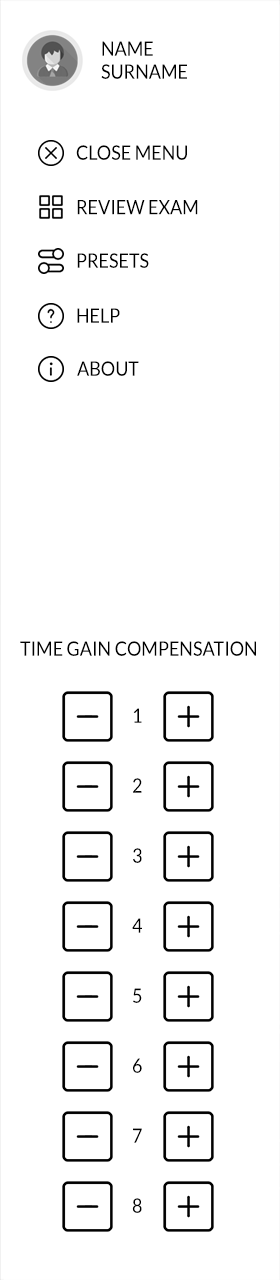
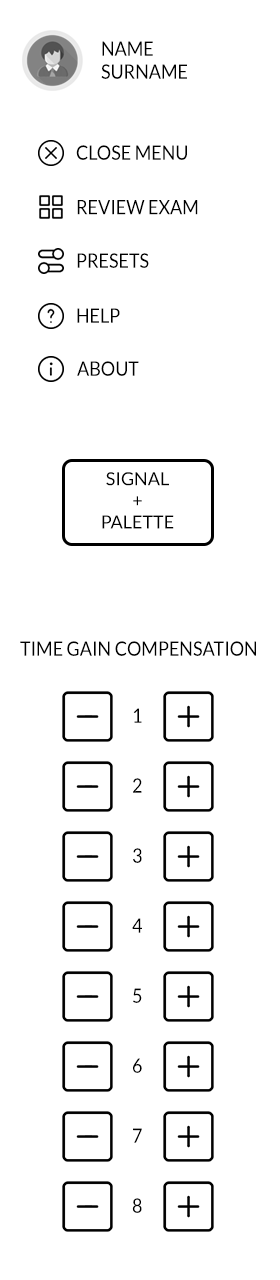
implemented signalPalette screen

Changed region(s): [[0.3429, 0.3438, 0.6286, 0.4375], [0.2, 0.3438, 0.2571, 0.4375], [0.7429, 0.3438, 0.7714, 0.4375]]

diff --git a/USG_tablet_UI/Windows/signalPaletteWindow.xaml b/USG_tablet_UI/Windows/signalPaletteWindow.xaml
@@ -1,0 +1,135 @@
+<Window x:Class="USG_tablet_UI.signalPaletteWindow"
+        xmlns="http://schemas.microsoft.com/winfx/2006/xaml/presentation"
+        xmlns:x="http://schemas.microsoft.com/winfx/2006/xaml"
+        Title="signalPaletteWindow" Height="1280" Width="800"
+        ResizeMode="NoResize" 
+        WindowStyle="None"
+        BorderBrush="Black"
+        BorderThickness="0"
+        AllowsTransparency="True"
+        Background="Transparent" >
+    <Grid>
+        <Image HorizontalAlignment="Left" Height="676" Margin="0,605,0,0" VerticalAlignment="Top" Width="800" Source="pack://application:,,,/gfx/signalPalette.png"/>
+        <Button x:Name="btnBack" Content="Button" HorizontalAlignment="Left" Margin="266,1176,0,0" VerticalAlignment="Top" Width="278" Opacity="0" Height="66" Click="btnBack_Click"/>
+        <Button x:Name="btnSine1" Content="Button" HorizontalAlignment="Left" Margin="42,723,0,0" VerticalAlignment="Top" Width="169" Opacity="0" Height="70" RenderTransformOrigin="0.5,0.5" Click="btnSine1_Click">
+            <Button.RenderTransform>
+                <TransformGroup>
+                    <ScaleTransform/>
+                    <SkewTransform/>
+                    <RotateTransform Angle="-0.24"/>
+                    <TranslateTransform/>
+                </TransformGroup>
+            </Button.RenderTransform>
+        </Button>
+        <Button x:Name="btnSine4" Content="Button" HorizontalAlignment="Left" Margin="222,723,0,0" VerticalAlignment="Top" Width="169" Opacity="0" Height="70" RenderTransformOrigin="0.5,0.5" Click="btnSine4_Click">
+            <Button.RenderTransform>
+                <TransformGroup>
+                    <ScaleTransform/>
+                    <SkewTransform/>
+                    <RotateTransform Angle="-0.24"/>
+                    <TranslateTransform/>
+                </TransformGroup>
+            </Button.RenderTransform>
+        </Button>
+        <Button x:Name="btnSine6" Content="Button" HorizontalAlignment="Left" Margin="408,723,0,0" VerticalAlignment="Top" Width="169" Opacity="0" Height="70" RenderTransformOrigin="0.5,0.5" Click="btnSine6_Click">
+            <Button.RenderTransform>
+                <TransformGroup>
+                    <ScaleTransform/>
+                    <SkewTransform/>
+                    <RotateTransform Angle="-0.24"/>
+                    <TranslateTransform/>
+                </TransformGroup>
+            </Button.RenderTransform>
+        </Button>
+        <Button x:Name="btnSine16" Content="Button" HorizontalAlignment="Left" Margin="591,723,0,0" VerticalAlignment="Top" Width="169" Opacity="0" Height="70" RenderTransformOrigin="0.5,0.5" Click="btnSine16_Click">
+            <Button.RenderTransform>
+                <TransformGroup>
+                    <ScaleTransform/>
+                    <SkewTransform/>
+                    <RotateTransform Angle="-0.24"/>
+                    <TranslateTransform/>
+                </TransformGroup>
+            </Button.RenderTransform>
+        </Button>
+        <Button x:Name="btnBarker20" Content="Button" HorizontalAlignment="Left" Margin="130,804,0,0" VerticalAlignment="Top" Width="169" Opacity="0" Height="70" RenderTransformOrigin="0.5,0.5" Click="btnBarker20_Click">
+            <Button.RenderTransform>
+                <TransformGroup>
+                    <ScaleTransform/>
+                    <SkewTransform/>
+                    <RotateTransform Angle="-0.24"/>
+                    <TranslateTransform/>
+                </TransformGroup>
+            </Button.RenderTransform>
+        </Button>
+        <Button x:Name="btnBarker35" Content="Button" HorizontalAlignment="Left" Margin="314,804,0,0" VerticalAlignment="Top" Width="169" Opacity="0" Height="70" RenderTransformOrigin="0.5,0.5" Click="btnBarker35_Click">
+            <Button.RenderTransform>
+                <TransformGroup>
+                    <ScaleTransform/>
+                    <SkewTransform/>
+                    <RotateTransform Angle="-0.24"/>
+                    <TranslateTransform/>
+                </TransformGroup>
+            </Button.RenderTransform>
+        </Button>
+        <Button x:Name="btnChirp" Content="Button" HorizontalAlignment="Left" Margin="498,804,0,0" VerticalAlignment="Top" Width="169" Opacity="0" Height="70" RenderTransformOrigin="0.5,0.5" Click="btnChirp_Click">
+            <Button.RenderTransform>
+                <TransformGroup>
+                    <ScaleTransform/>
+                    <SkewTransform/>
+                    <RotateTransform Angle="-0.24"/>
+                    <TranslateTransform/>
+                </TransformGroup>
+            </Button.RenderTransform>
+        </Button>
+        <Button x:Name="btn15f" Content="Button" HorizontalAlignment="Left" Margin="40,963,0,0" VerticalAlignment="Top" Width="169" Opacity="0" Height="70" RenderTransformOrigin="0.5,0.5" Click="btn15f_Click">
+            <Button.RenderTransform>
+                <TransformGroup>
+                    <ScaleTransform/>
+                    <SkewTransform/>
+                    <RotateTransform Angle="-0.24"/>
+                    <TranslateTransform/>
+                </TransformGroup>
+            </Button.RenderTransform>
+        </Button>
+        <Button x:Name="btn175f" Content="Button" HorizontalAlignment="Left" Margin="223,963,0,0" VerticalAlignment="Top" Width="169" Opacity="0" Height="70" RenderTransformOrigin="0.5,0.5" Click="btn175f_Click">
+            <Button.RenderTransform>
+                <TransformGroup>
+                    <ScaleTransform/>
+                    <SkewTransform/>
+                    <RotateTransform Angle="-0.24"/>
+                    <TranslateTransform/>
+                </TransformGroup>
+            </Button.RenderTransform>
+        </Button>
+        <Button x:Name="btn20f" Content="Button" HorizontalAlignment="Left" Margin="407,963,0,0" VerticalAlignment="Top" Width="169" Opacity="0" Height="70" RenderTransformOrigin="0.5,0.5" Click="btn20f_Click">
+            <Button.RenderTransform>
+                <TransformGroup>
+                    <ScaleTransform/>
+                    <SkewTransform/>
+                    <RotateTransform Angle="-0.24"/>
+                    <TranslateTransform/>
+                </TransformGroup>
+            </Button.RenderTransform>
+        </Button>
+        <Button x:Name="btn30f" Content="Button" HorizontalAlignment="Left" Margin="591,963,0,0" VerticalAlignment="Top" Width="169" Opacity="0" Height="70" RenderTransformOrigin="0.5,0.5" Click="btn30f_Click">
+            <Button.RenderTransform>
+                <TransformGroup>
+                    <ScaleTransform/>
+                    <SkewTransform/>
+                    <RotateTransform Angle="-0.24"/>
+                    <TranslateTransform/>
+                </TransformGroup>
+            </Button.RenderTransform>
+        </Button>
+        <Button x:Name="btn8bitLinear" Content="Button" HorizontalAlignment="Left" Margin="321,1041,0,0" VerticalAlignment="Top" Width="169" Opacity="0" Height="70" RenderTransformOrigin="0.5,0.5" Click="btn8bitLinear_Click">
+            <Button.RenderTransform>
+                <TransformGroup>
+                    <ScaleTransform/>
+                    <SkewTransform/>
+                    <RotateTransform Angle="-0.24"/>
+                    <TranslateTransform/>
+                </TransformGroup>
+            </Button.RenderTransform>
+        </Button>
+    </Grid>
+</Window>

diff --git a/USG_tablet_UI/Windows/MeasureWindow.xaml b/USG_tablet_UI/Windows/MeasureWindow.xaml
@@ -10,7 +10,7 @@
         Background="Transparent" >
     <Grid>
         <Image HorizontalAlignment="Left" Height="675" Margin="0,605,0,0" VerticalAlignment="Top" Width="800" Source="pack://application:,,,/gfx/badanie_measure_v1_800_675.png"/>
-        <Button x:Name="btnBack" Content="Button" HorizontalAlignment="Left" Margin="260,1169,0,-334" VerticalAlignment="Top" Width="288" Height="70" Opacity="0" Click="btnBack_Click"/>
+        <Button x:Name="btnBack" Content="Button" HorizontalAlignment="Left" Margin="260,1174,0,0" VerticalAlignment="Top" Width="288" Height="70" Opacity="0" Click="btnBack_Click"/>
         <Button x:Name="btnMarkerA" Content="Button" HorizontalAlignment="Left" Margin="30,649,0,0" VerticalAlignment="Top" Width="171" Height="70" Opacity="0" Click="btnMarkerA_Click"/>
         <Button x:Name="btnMarkerB" Content="Button" HorizontalAlignment="Left" Margin="214,649,0,0" VerticalAlignment="Top" Width="177" Height="70" Opacity="0" Click="btnMarkerB_Click"/>
         <Button x:Name="btnMarkerC" Content="Button" HorizontalAlignment="Left" Margin="30,739,0,0" VerticalAlignment="Top" Width="171" Height="70" Opacity="0" Click="btnMarkerC_Click"/>
@@ -23,6 +23,6 @@
         <Button x:Name="btnMarkerUp" Content="Button" HorizontalAlignment="Left" Margin="179,862,0,0" VerticalAlignment="Top" Width="79" Opacity="0" Height="81" RenderTransformOrigin="1.4,0.309" Click="btnMarkerUp_Click"/>
         <Button x:Name="btnMarkerDown" Content="Button" HorizontalAlignment="Left" Margin="179,1029,0,0" VerticalAlignment="Top" Width="79" Opacity="0" Height="81" RenderTransformOrigin="1.4,0.309" Click="btnMarkerDown_Click"/>
         <Button x:Name="btnMarkerRight" Content="Button" HorizontalAlignment="Left" Margin="260,944,0,0" VerticalAlignment="Top" Width="79" Opacity="0" Height="81" RenderTransformOrigin="1.4,0.309" Click="btnMarkerRight_Click"/>
-        <Button x:Name="btnMarkerClear" Content="Button" HorizontalAlignment="Left" Margin="536,939,0,0" VerticalAlignment="Top" Width="174" Opacity="0" Height="68" RenderTransformOrigin="0.507,0.489" Click="btnMarkerClear_Click"/>
+        <Button x:Name="btnMarkerClear" Content="Button" HorizontalAlignment="Left" Margin="507,734,0,0" VerticalAlignment="Top" Width="174" Opacity="0" Height="68" RenderTransformOrigin="0.507,0.489" Click="btnMarkerClear_Click"/>
     </Grid>
 </Window>

diff --git a/USG_tablet_UI/Windows/SettingsGeneralWindowWithTGC.xaml b/USG_tablet_UI/Windows/SettingsGeneralWindowWithTGC.xaml
@@ -29,5 +29,6 @@
         <Button x:Name="btnTGC7up" Content="TGC 1 +" HorizontalAlignment="Left" Margin="158,1109,0,0" VerticalAlignment="Top" Width="62" Height="54" Opacity="0" Click="btnTGC7up_Click"/>
         <Button x:Name="btnTGC8up" Content="TGC 1 +" HorizontalAlignment="Left" Margin="158,1179,0,0" VerticalAlignment="Top" Width="62" Height="54" Opacity="0" Click="btnTGC8up_Click"/>
         <Button x:Name="btnPresets" Content="Close" HorizontalAlignment="Left" Margin="36,242,0,0" VerticalAlignment="Top" Width="165" Height="36" Opacity="0" Click="btnPresets_Click"/>
+        <Button x:Name="btnSignalPalette" Content="TGC 1 -" HorizontalAlignment="Left" Margin="55,453,0,0" VerticalAlignment="Top" Width="165" Height="102" Opacity="0" Click="btnSignalPalette_Click"/>
     </Grid>
 </Window>

diff --git a/USG_tablet_UI/Windows/signalPaletteWindow.xaml.cs b/USG_tablet_UI/Windows/signalPaletteWindow.xaml.cs
@@ -1,0 +1,92 @@
+using System;
+using System.Collections.Generic;
+using System.Linq;
+using System.Text;
+using System.Threading.Tasks;
+using System.Windows;
+using System.Windows.Controls;
+using System.Windows.Data;
+using System.Windows.Documents;
+using System.Windows.Input;
+using System.Windows.Media;
+using System.Windows.Media.Imaging;
+using System.Windows.Shapes;
+
+namespace USG_tablet_UI
+{
+    /// <summary>
+    /// Interaction logic for signalPaletteWindow.xaml
+    /// </summary>
+    public partial class signalPaletteWindow : Window
+    {
+        public signalPaletteWindow()
+        {
+            InitializeComponent();
+        }
+
+        private void btnBack_Click(object sender, RoutedEventArgs e)
+        {
+            this.Close();
+        }
+
+        private void btnSine1_Click(object sender, RoutedEventArgs e)
+        {
+            GlobalSettings.conn.send("t125");
+        }
+
+        private void btnSine4_Click(object sender, RoutedEventArgs e)
+        {
+            GlobalSettings.conn.send("t425");
+        }
+
+        private void btnSine6_Click(object sender, RoutedEventArgs e)
+        {
+            GlobalSettings.conn.send("t625");
+        }
+
+        private void btnSine16_Click(object sender, RoutedEventArgs e)
+        {
+            GlobalSettings.conn.send("t162");
+        }
+
+        private void btnBarker20_Click(object sender, RoutedEventArgs e)
+        {
+            GlobalSettings.conn.send("tb20");
+        }
+
+        private void btnBarker35_Click(object sender, RoutedEventArgs e)
+        {
+            GlobalSettings.conn.send("tb35");
+        }
+
+        private void btnChirp_Click(object sender, RoutedEventArgs e)
+        {
+            GlobalSettings.conn.send("chir");
+        }
+
+        private void btn15f_Click(object sender, RoutedEventArgs e)
+        {
+            GlobalSettings.conn.send("8b15");
+        }
+
+        private void btn175f_Click(object sender, RoutedEventArgs e)
+        {
+            GlobalSettings.conn.send("8b17");
+        }
+
+        private void btn20f_Click(object sender, RoutedEventArgs e)
+        {
+            GlobalSettings.conn.send("8b20");
+        }
+
+        private void btn30f_Click(object sender, RoutedEventArgs e)
+        {
+            GlobalSettings.conn.send("8b30");
+        }
+
+        private void btn8bitLinear_Click(object sender, RoutedEventArgs e)
+        {
+            GlobalSettings.conn.send("8blg");
+        }
+    }
+}

diff --git a/USG_tablet_UI/Windows/SettingsGeneralWindowWithTGC.xaml.cs b/USG_tablet_UI/Windows/SettingsGeneralWindowWithTGC.xaml.cs
@@ -139,5 +139,12 @@ namespace USG_tablet_UI
             presetsWin.Show();
         }
 
+        private void btnSignalPalette_Click(object sender, RoutedEventArgs e)
+        {
+            signalPaletteWindow sigPalWin = new signalPaletteWindow();
+            sigPalWin.Parent = GlobalSettings.mainWindow;
+            sigPalWin.Show();
+        }
+
     }
 }
